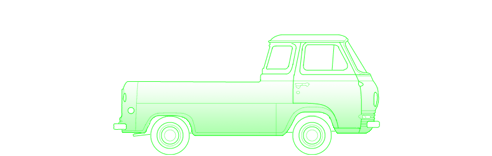
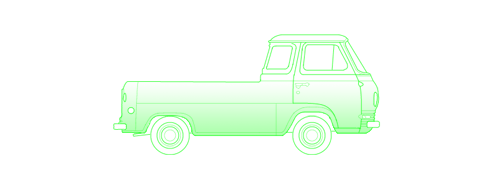
client: исправлен вид сбоку для econoline

Changed region(s): [[0.2134, 0.1795, 0.7927, 1.0]]

diff --git a/sublayers_common/static/content/mobiles/cars/middle/offroad/ford_econoline/armorer_car.html b/sublayers_common/static/content/mobiles/cars/middle/offroad/ford_econoline/armorer_car.html
@@ -21,7 +21,7 @@
     }
     {% end %}
 
-    .shift-for-journal_{{ car.node_html() }} {margin: -230px 0 0 0;}
+    .shift-for-journal_{{ car.node_html() }} {margin: -216px 0 0 0;}
 
     .top_slot_FL_{{ car.node_html() }} { top: 0px; left: 0px; display: none; }
     .side_slot_FL_{{ car.node_html() }} { top: 0px; left: 0px; display: none; }
@@ -36,7 +36,7 @@
     .side_slot_CL_{{ car.node_html() }} { top: 0px; left: 0px; display: none; }
 
     .top_slot_CC_{{ car.node_html() }} { top: 94px; left: 290px; }
-    .side_slot_CC_{{ car.node_html() }} { top: 236px; left: 290px; }
+    .side_slot_CC_{{ car.node_html() }} { top: 222px; left: 290px; }
 
     .top_slot_CR_{{ car.node_html() }} { top: 0px; left: 0px; display: none; }
     .side_slot_CR_{{ car.node_html() }} { top: 0px; left: 0px; display: none; }
